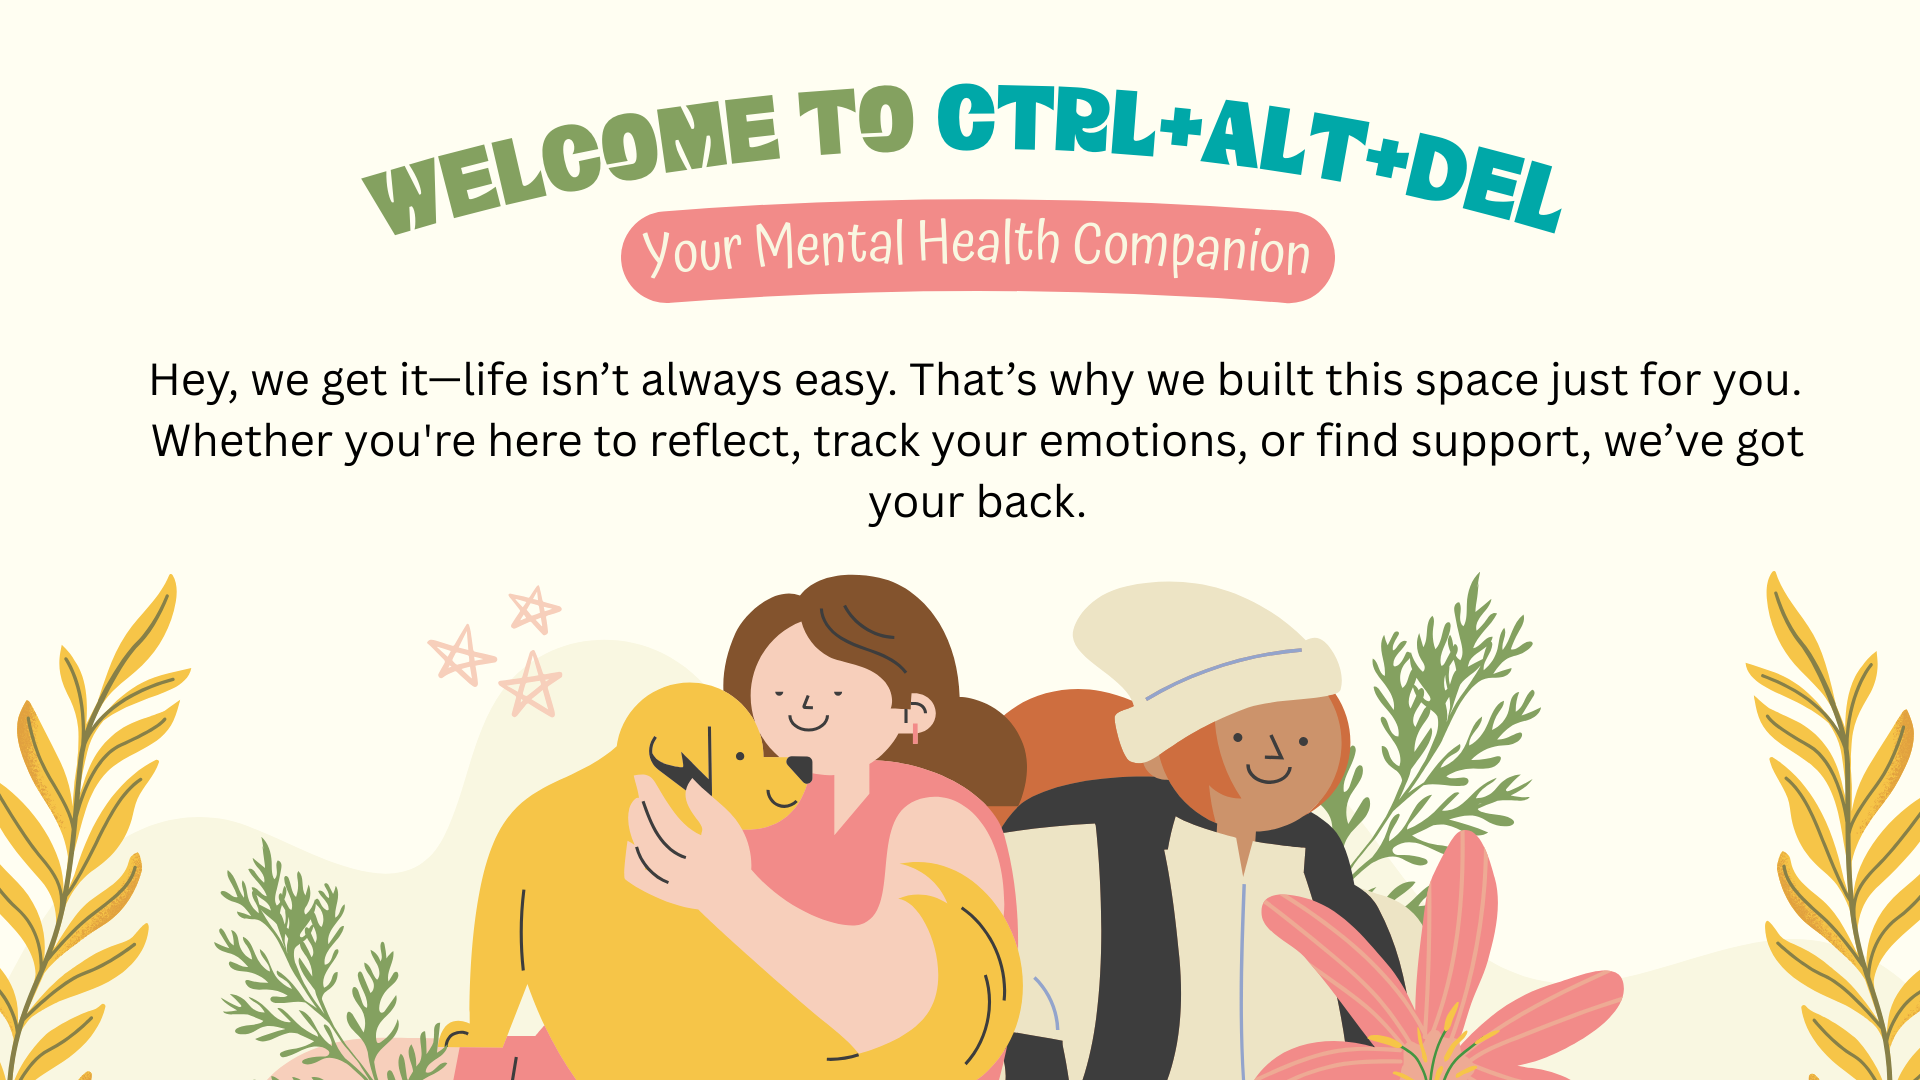
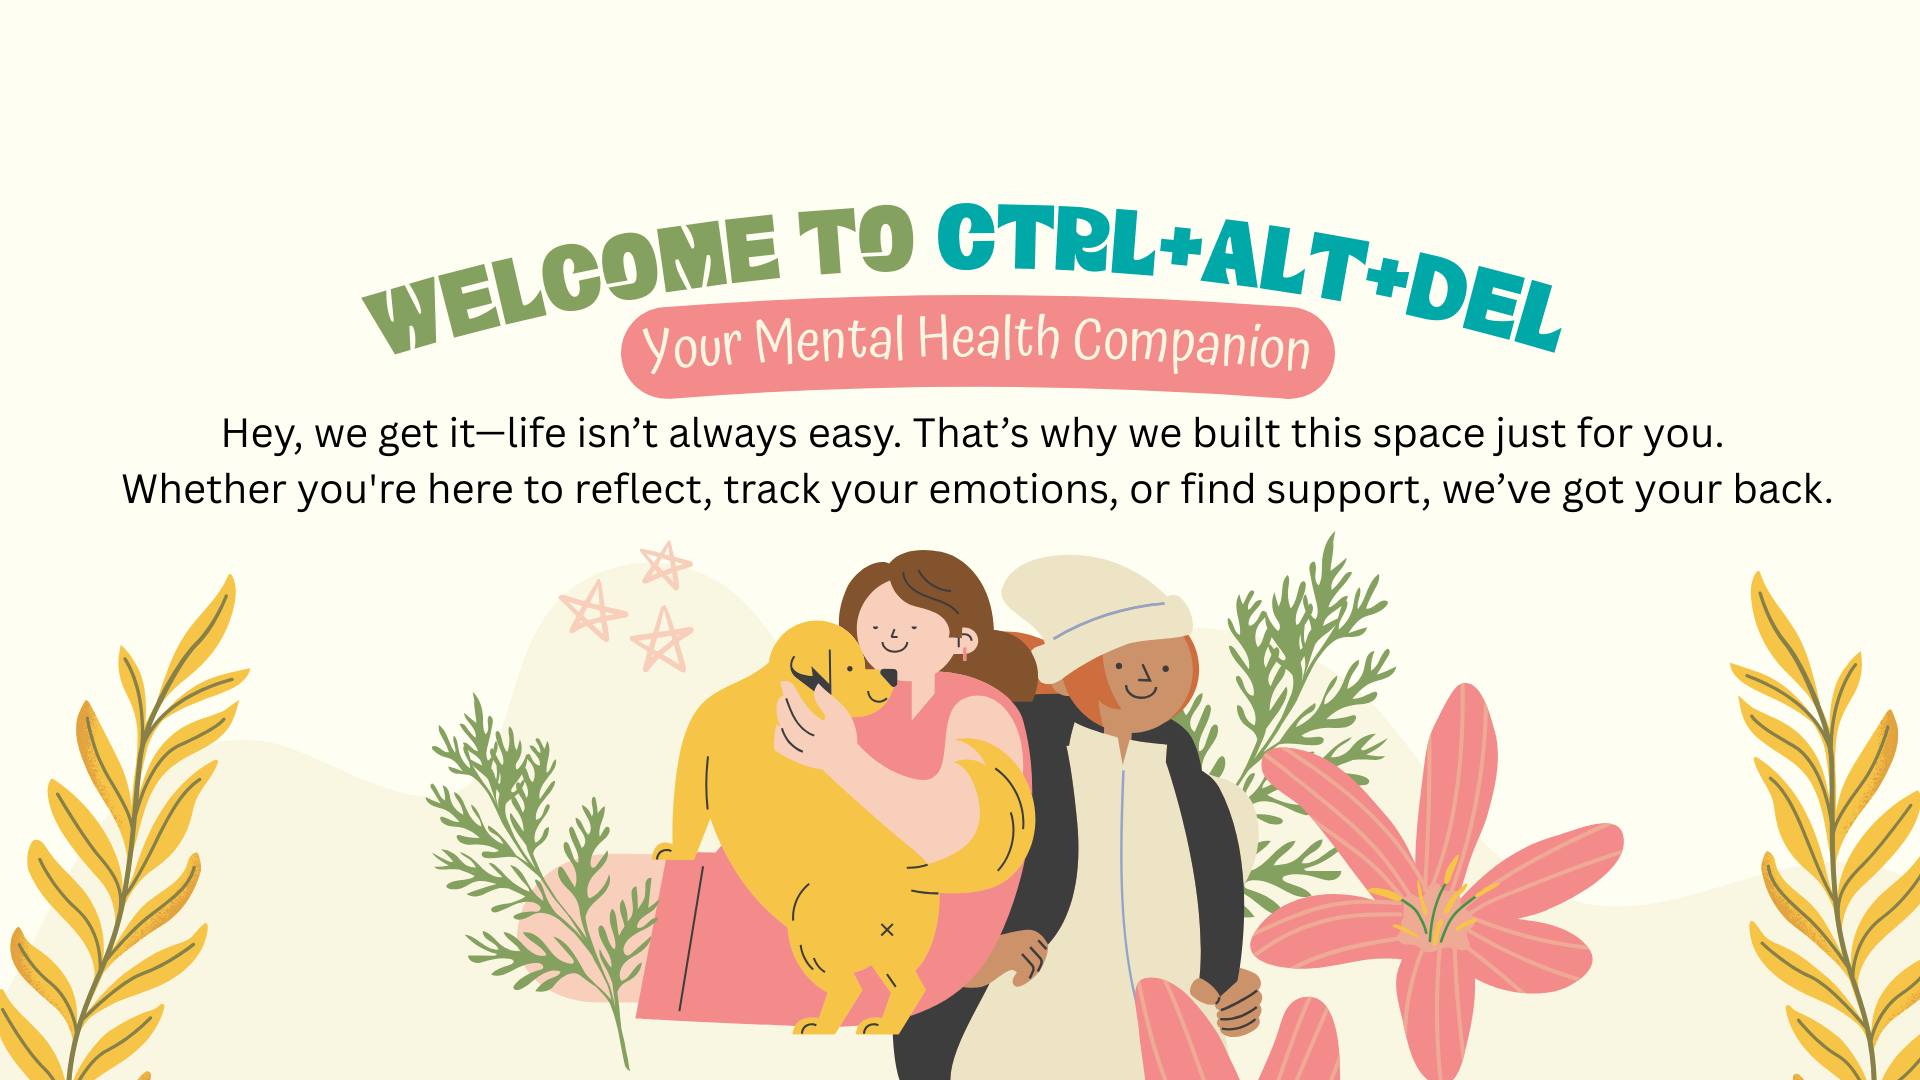
Fixed carousel image cropping issue

diff --git a/ctrl-alt-del/src/pages/Home.jsx b/ctrl-alt-del/src/pages/Home.jsx
@@ -1,6 +1,6 @@
 import React from 'react';
 import slide1 from "../assets/slide1.png";
-import slide2 from "../assets/slide2.jpg";
+import slide2 from "../assets/slide2.png";
 import slide3 from "../assets/slide3.png";
 import slide4 from "../assets/slide4.png";
 import slide5 from "../assets/slide5.png";
@@ -15,7 +15,7 @@ export default function Home() {
       <>
         <Navbar />
         <section className="sec1">
-            <div id="carouselExampleAutoplaying" class="carousel carousel-dark slide" data-bs-ride="carousel">
+            <div id="carouselExampleAutoplaying" class="carousel carousel-dark slide" data-bs-ride="carousel" data-bs-pause="false">
               <div class="carousel-inner">
                 <div class="carousel-item active">
                   <img src={slide1} class="d-block w-100" alt="Slide 1" />

diff --git a/ctrl-alt-del/src/styles/home.css b/ctrl-alt-del/src/styles/home.css
@@ -1,10 +1,15 @@
 .sec1 {
-    height: 50vh; /* Full viewport height */
-    width: 100%; /* Full width of the section */
-    position: relative;
     width: 100%;
-    padding-bottom: 56.25%; /* 16:9 Aspect Ratio (height = 9/16 * width) */
-    color: black; /* Adjust text color for better visibility */
-    /* opacity:0.7; */
+    height: 80vh;  /* Adjust height to ensure images fit well */
+    display: flex;
+    justify-content: center;
+    align-items: center;
+    background-color: #FAF3E0;  /* Your beige background */
+    overflow: hidden;  /* Prevent scrolling */
 }
 
+.carousel-item img {
+    width: 100%;
+    height: 100%;
+    object-fit: cover;  /* Ensures images fill the area without stretching */
+}

diff --git a/ctrl-alt-del/src/components/Navbar.jsx b/ctrl-alt-del/src/components/Navbar.jsx
@@ -1,6 +1,6 @@
 import React from "react";
 import { Navbar, Nav, Container, NavDropdown } from "react-bootstrap";
-import logo from "../assets/logo3.jpg";
+import logo from "../assets/logo_up.jpg";
 import "../styles/navbar.css";
 
 const MentalHealthNavbar = () => {

diff --git a/ctrl-alt-del/src/components/Footer.jsx b/ctrl-alt-del/src/components/Footer.jsx
@@ -1,4 +1,4 @@
-import logo from "../assets/logo.webp";
+import logo from "../assets/logo_down.webp";
 
 
 export default function Footer() {
